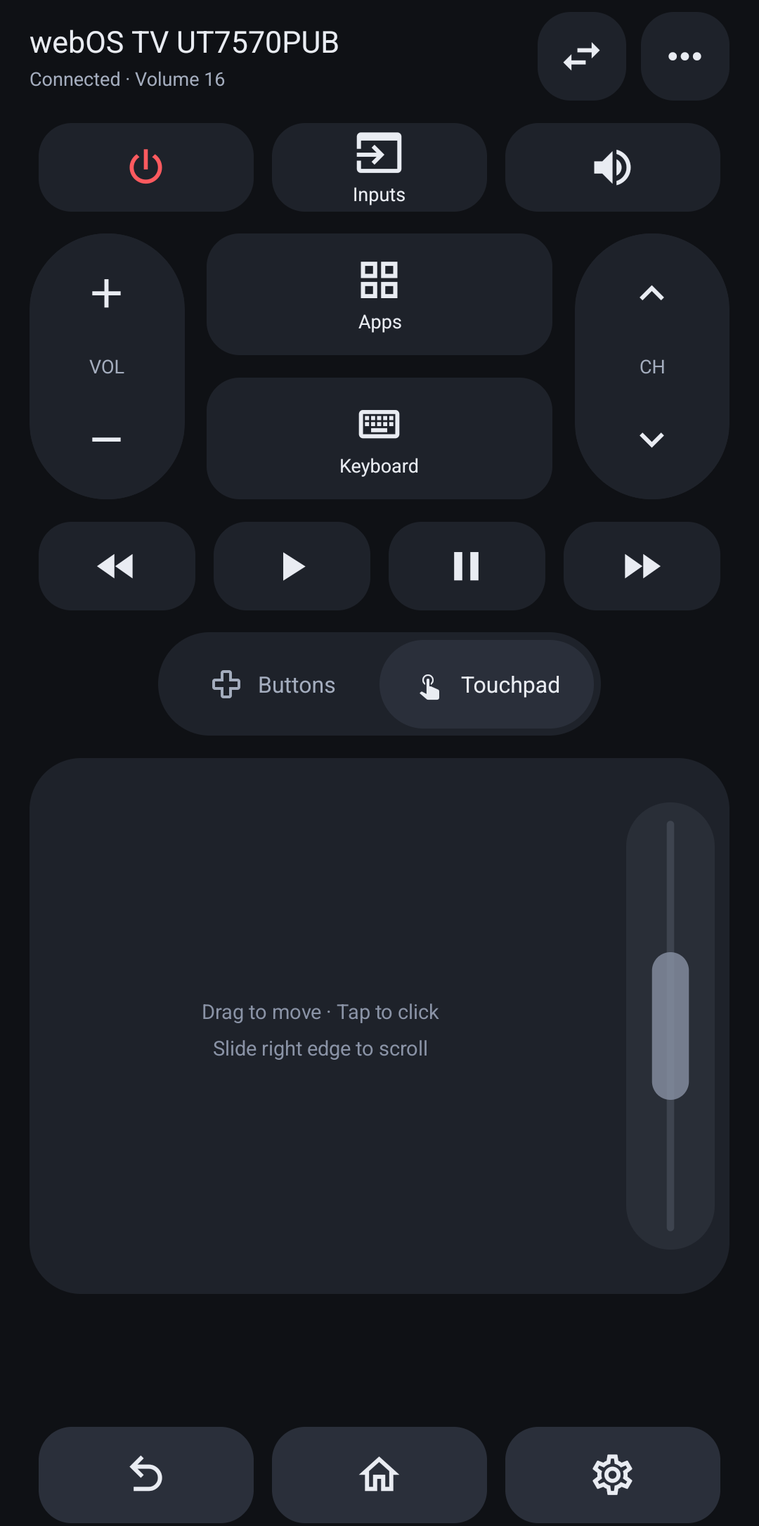
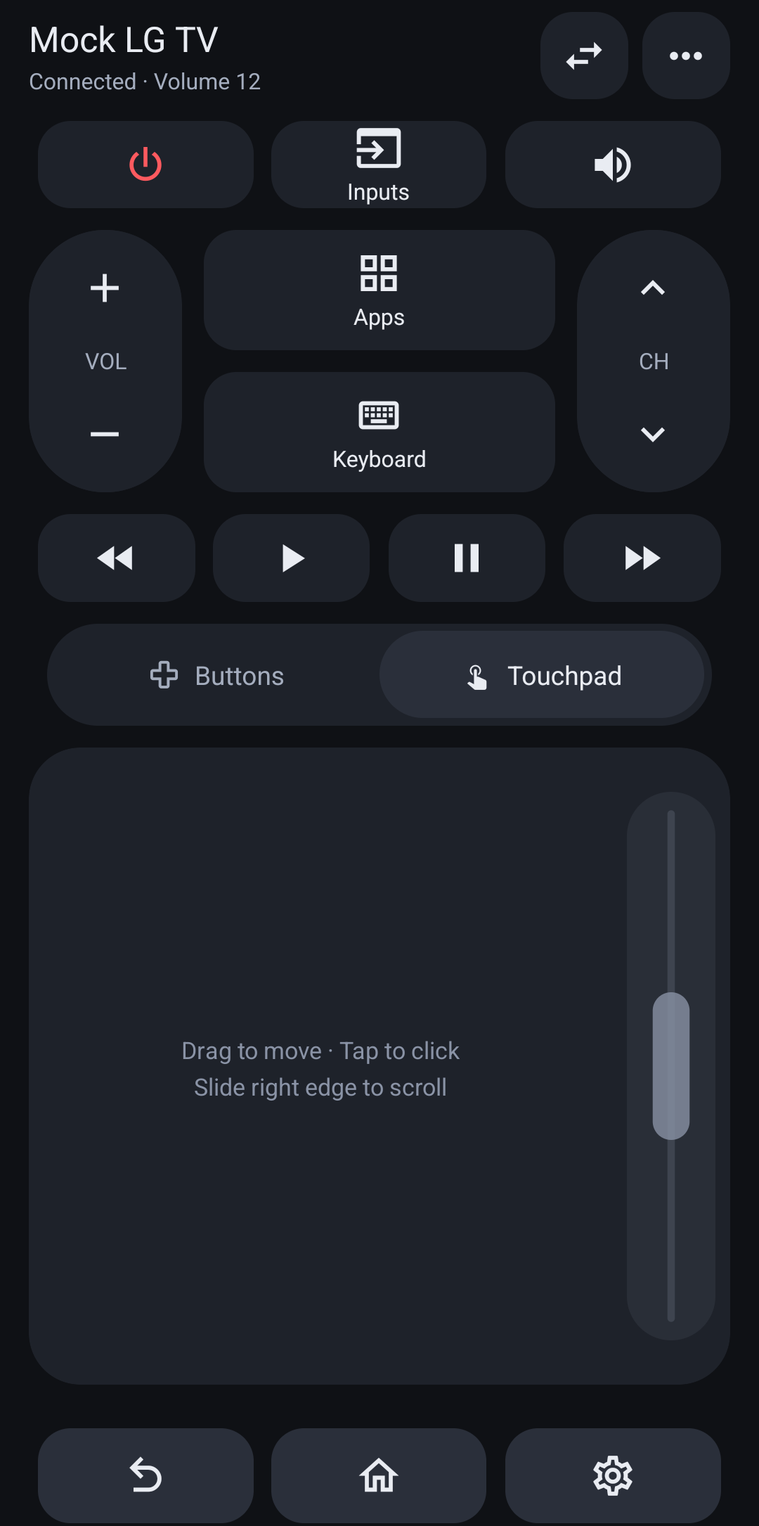
Release 0.6.6 with consistent remote layout across screen sizes

diff --git a/app/components/RemoteScreen.tsx b/app/components/RemoteScreen.tsx
@@ -1,43 +1,29 @@
 import { useState } from 'react';
-import { Pressable, StyleSheet, useWindowDimensions, View } from 'react-native';
+import { Pressable, StyleSheet, View } from 'react-native';
 import { ActivityIndicator, Text, TouchableRipple } from 'react-native-paper';
 import MaterialCommunityIcons from '@expo/vector-icons/MaterialCommunityIcons';
 import { native, NativeTouchpad, type RemoteState } from '../../modules/wave-remote';
 import { commands, connectionLabel } from '../lib/remote';
 import { palette } from '../theme';
-import { Dpad, RemoteButton, Rocker } from './RemoteButton';
 import { ScrollFrame } from './ScrollFrame';
+import { Dpad, RemoteButton, RemoteScaleContext, Rocker } from './RemoteButton';
 
 export type Panel = 'settings' | 'tvs' | 'inputs' | 'apps' | 'keyboard' | null;
 export function RemoteScreen({ state, setPanel, power, run }: {
   state: RemoteState; setPanel: (panel: Panel) => void; power: () => void;
   run: (action: () => Promise<unknown>) => Promise<boolean>;
 }) {
+  const [viewport, setViewport] = useState({ width: 412, height: 850 });
+  // React Native reports logical pixels after system bars and display scaling.
+  // Keep the reference proportions while leaving scrolling for large accessibility text.
+  const scale = Math.max(0.8, Math.min(1, viewport.width / 412, viewport.height / 850));
+  const styles = makeStyles(scale);
   const ready = state.state === 'ready';
   const busy = state.waking || state.state === 'connecting' || state.state === 'pairing';
-  const { width, height, fontScale } = useWindowDimensions();
-  const [availableHeight, setAvailableHeight] = useState(height);
-  const compact = availableHeight < 760;
-  const sideRockers = compact && fontScale <= 1.3 && width >= 300;
-  // Reserve the other controls and footer first; every D-pad target stays at least 48 dp.
-  const padSize = sideRockers ? Math.max(48, Math.min(84, Math.floor((Math.min(width, 600) - 156) / 3), Math.floor((availableHeight - 352) / 3)))
-    : compact ? Math.max(fontScale > 1.3 ? 64 : 48, Math.min(84, Math.floor((availableHeight - 417) / 3))) : 84;
-  const padGap = compact ? 6 : 8;
-  const touchpadHeight = compact ? Math.max(160, padSize * 3 + padGap * 2) : 200;
-  const row = [styles.row, compact && styles.compactRow];
-  const stackedShortcuts = (Math.min(width, 600) - 224) / fontScale < 72;
   const key = (name: string) => () => { void run(() => native!.button(name)); };
-  const shortcuts = <View style={[styles.shortcuts, compact && { gap: 8 }, stackedShortcuts && styles.wideShortcuts, sideRockers && styles.horizontalShortcuts]}>
-    <RemoteButton label="Apps" icon="view-grid-outline" caption="Apps" disabled={!ready} onPress={() => setPanel('apps')} style={[styles.shortcut, compact && { minHeight: 48 }]} />
-    <RemoteButton label="Keyboard" icon="keyboard-outline" caption="Keyboard" disabled={!ready} onPress={() => setPanel('keyboard')} style={[styles.shortcut, compact && { minHeight: 48 }]} />
-  </View>;
-  const pad = state.touchpad && NativeTouchpad ? <View style={[styles.touchpad, { minHeight: touchpadHeight }, !ready && styles.offlinePad]}>
-    {ready ? <NativeTouchpad style={[styles.nativePad, { minHeight: touchpadHeight }]} naturalEdge={state.naturalEdge} naturalTwoFinger={state.naturalTwoFinger} />
-      : <><MaterialCommunityIcons name="television-off" size={28} color={palette.onDisabled} /><Text variant="bodyMedium" style={styles.offlineText}>Connect to use the touchpad</Text></>}
-  </View> : <Dpad disabled={!ready} size={padSize} gap={padGap} />;
-  return <View style={styles.screen} onLayout={(event) => setAvailableHeight(event.nativeEvent.layout.height)}>
-    <ScrollFrame style={styles.scroll} contentContainerStyle={[styles.content, compact && { paddingTop: 4 }]}>
-    <View style={[styles.header, compact && styles.compactRow]}>
+  return <RemoteScaleContext.Provider value={scale}><View style={styles.screen} onLayout={({ nativeEvent: { layout } }) => setViewport({ width: layout.width, height: layout.height })}>
+    <ScrollFrame style={styles.scroll} contentContainerStyle={styles.content}>
+    <View style={styles.header}>
       <Pressable accessibilityRole="button" accessibilityLabel={`${state.name || 'LG TV'}. ${connectionLabel(state)}`} accessibilityHint="Reconnect to your TV" style={styles.titles} onPress={() => { if (!ready && !busy) void run(() => native!.reconnect()); }}>
         <Text style={styles.name} numberOfLines={1}>{state.name || 'LG TV'}</Text>
         <Text style={[styles.status, !ready && !busy && { color: palette.power }]} numberOfLines={2} accessibilityLiveRegion="polite">{connectionLabel(state)}</Text>
@@ -46,66 +32,65 @@ export function RemoteScreen({ state, setPanel, power, run }: {
       <RemoteButton label={state.tvs.length > 1 ? 'Switch TV' : 'Add or switch TV'} icon="swap-horizontal" onPress={() => setPanel('tvs')} style={styles.more} />
       <RemoteButton label="Remote settings" icon="dots-horizontal" onPress={() => setPanel('settings')} style={styles.more} />
     </View>
-    <View style={row}>
+    <View style={styles.row}>
       <RemoteButton label={ready ? 'Power off' : 'Wake TV'} icon="power" color={palette.power} disabled={busy} onPress={power} style={styles.weight} />
       <RemoteButton label="Inputs" icon="application-import" caption="Inputs" disabled={!ready} onPress={() => setPanel('inputs')} style={styles.weight} />
       <RemoteButton label={state.muted ? 'Unmute' : 'Mute'} icon={state.muted ? 'volume-off' : 'volume-high'} color={state.muted ? palette.power : palette.text} disabled={!ready} onPress={() => { void run(() => native!.request('ssap://audio/setMute', { mute: !state.muted })); }} style={styles.weight} />
     </View>
-    {sideRockers ? <View style={styles.compactRow}>{shortcuts}</View> : <View style={[styles.controls, compact && styles.compactRow]}>
-      <Rocker label="Volume" up={commands.volumeUp} down={commands.volumeDown} disabled={!ready} compact={compact} />
-      {!stackedShortcuts ? shortcuts : null}
-      <Rocker label="Channel" up={commands.channelUp} down={commands.channelDown} disabled={!ready} compact={compact} />
-      {stackedShortcuts ? shortcuts : null}
-    </View>}
-    <View style={row}>
+    <View style={styles.controls}>
+      <Rocker label="Volume" up={commands.volumeUp} down={commands.volumeDown} disabled={!ready} />
+      <View style={styles.shortcuts}>
+        <RemoteButton label="Apps" icon="view-grid-outline" caption="Apps" disabled={!ready} onPress={() => setPanel('apps')} style={styles.shortcut} />
+        <RemoteButton label="Keyboard" icon="keyboard-outline" caption="Keyboard" disabled={!ready} onPress={() => setPanel('keyboard')} style={styles.shortcut} />
+      </View>
+      <Rocker label="Channel" up={commands.channelUp} down={commands.channelDown} disabled={!ready} />
+    </View>
+    <View style={styles.row}>
       {([['rewind', 'rewind', 'Rewind'], ['play', 'play', 'Play'], ['pause', 'pause', 'Pause'], ['fastForward', 'fast-forward', 'Fast forward']] as const).map(([command, icon, label]) =>
         <RemoteButton key={command} label={label} icon={icon} disabled={!ready} onPress={() => { void run(() => native!.request(`ssap://media.controls/${command}`, null)); }} style={styles.weight} />)}
     </View>
-    <View style={[styles.modes, compact && styles.compactRow]} accessibilityRole="tablist">
+    <View style={styles.modes} accessibilityRole="tablist">
       {([['Buttons', 'gamepad-round-outline'], ['Touchpad', 'gesture-tap']] as const).map(([label, icon], index) => {
         const selected = state.touchpad === (index === 1);
         return <TouchableRipple key={label} onPress={() => { void run(() => native!.preferences(index === 1, state.naturalEdge, state.naturalTwoFinger)); }} accessibilityRole="tab" accessibilityState={{ selected }} style={[styles.mode, selected && styles.selectedMode]}>
-          <View style={[styles.modeContent, fontScale > 1.3 && styles.largeTextMode]}>
-            <MaterialCommunityIcons name={icon} size={18} color={selected ? palette.text : palette.muted} />
-            <Text style={{ color: selected ? palette.text : palette.muted, fontSize: 14 }}>{label}</Text>
+          <View style={styles.modeContent}>
+            <MaterialCommunityIcons name={icon} size={18 * scale} color={selected ? palette.text : palette.muted} />
+            <Text style={{ color: selected ? palette.text : palette.muted, fontSize: 14 * scale }}>{label}</Text>
           </View>
         </TouchableRipple>;
       })}
     </View>
-    <View style={[styles.pad, { minHeight: state.touchpad && NativeTouchpad ? touchpadHeight : padSize * 3 + padGap * 2 }]}>
-      {sideRockers ? <View style={styles.padWithRockers}>
-        <Rocker label="Volume" up={commands.volumeUp} down={commands.volumeDown} disabled={!ready} compact narrow />
-        <View style={styles.padCenter}>{pad}</View>
-        <Rocker label="Channel" up={commands.channelUp} down={commands.channelDown} disabled={!ready} compact narrow />
-      </View> : pad}
+    <View style={[styles.pad, !(state.touchpad && NativeTouchpad) && styles.buttonPad]}>
+      {state.touchpad && NativeTouchpad ? <View style={[styles.touchpad, !ready && styles.offlinePad]}>
+        {/* The native pad draws its own hints, so leave it out entirely while it can't be used. */}
+        {ready ? <NativeTouchpad style={styles.nativePad} naturalEdge={state.naturalEdge} naturalTwoFinger={state.naturalTwoFinger} />
+          : <><MaterialCommunityIcons name="television-off" size={28} color={palette.onDisabled} /><Text variant="bodyMedium" style={styles.offlineText}>Connect to use the touchpad</Text></>}
+      </View> : <Dpad disabled={!ready} />}
     </View>
-    <View style={[styles.landingZone, compact && { height: 4 }]} />
+    <View style={styles.landingZone} />
     </ScrollFrame>
-    <View style={[styles.footer, compact && { paddingTop: 8, paddingBottom: 8 }]}><View style={[styles.row, styles.navigation]}>
-      <RemoteButton label="Back" icon="arrow-u-left-top" disabled={!ready} onPress={key('BACK')} style={[styles.weight, styles.navButton, compact && { minHeight: 48 }]} />
-      <RemoteButton label="Home" icon="home-outline" disabled={!ready} onPress={key('HOME')} style={[styles.weight, styles.navButton, compact && { minHeight: 48 }]} />
-      <RemoteButton label="TV settings" icon="cog-outline" disabled={!ready} onPress={key('MENU')} style={[styles.weight, styles.navButton, compact && { minHeight: 48 }]} />
+    <View style={styles.footer}><View style={[styles.row, styles.navigation]}>
+      <RemoteButton label="Back" icon="arrow-u-left-top" disabled={!ready} onPress={key('BACK')} style={[styles.weight, styles.navButton]} />
+      <RemoteButton label="Home" icon="home-outline" disabled={!ready} onPress={key('HOME')} style={[styles.weight, styles.navButton]} />
+      <RemoteButton label="TV settings" icon="cog-outline" disabled={!ready} onPress={key('MENU')} style={[styles.weight, styles.navButton]} />
     </View></View>
-  </View>;
+  </View></RemoteScaleContext.Provider>;
 }
-const styles = StyleSheet.create({
+const makeStyles = (scale: number) => StyleSheet.create({
   screen: { flex: 1 }, scroll: { flex: 1 },
-  content: { flexGrow: 1, paddingHorizontal: 16, paddingTop: 8, maxWidth: 600, width: '100%', alignSelf: 'center' },
-  footer: { paddingHorizontal: 16, paddingTop: 12, paddingBottom: 12, maxWidth: 600, width: '100%', alignSelf: 'center' },
-  header: { minHeight: 48, flexDirection: 'row', alignItems: 'center', marginBottom: 12, gap: 8 },
-  titles: { flex: 1, minHeight: 48, justifyContent: 'center' }, name: { fontSize: 19, fontWeight: '500', color: palette.text },
-  status: { fontSize: 12, color: palette.muted, marginTop: 2 }, activity: { marginHorizontal: 4 }, more: { width: 48 },
-  row: { flexDirection: 'row', gap: 10, marginHorizontal: 5, marginBottom: 12 }, weight: { flex: 1 },
-  compactRow: { marginBottom: 4 },
-  horizontalShortcuts: { flexDirection: 'row', flex: 0, flexBasis: 'auto', marginHorizontal: 5, marginTop: 0 },
-  padWithRockers: { flex: 1, flexDirection: 'row', alignItems: 'center', gap: 8 }, padCenter: { flex: 1, alignItems: 'stretch', justifyContent: 'center', alignSelf: 'stretch' },
-  controls: { flexDirection: 'row', flexWrap: 'wrap', justifyContent: 'space-between', marginBottom: 12 }, shortcuts: { flex: 1, marginHorizontal: 12, gap: 12 }, wideShortcuts: { flexBasis: '100%', flexGrow: 0, flexShrink: 0, marginHorizontal: 0, marginTop: 12 }, shortcut: { minHeight: 66, flex: 1 },
-  modes: { flexDirection: 'row', alignSelf: 'center', width: '100%', maxWidth: 360, borderRadius: 28, backgroundColor: palette.surface, padding: 4, marginBottom: 12 },
-  mode: { minHeight: 48, paddingHorizontal: 8, paddingVertical: 8, alignItems: 'center', justifyContent: 'center', borderRadius: 24, flex: 1 }, selectedMode: { backgroundColor: palette.raised },
-  modeContent: { flexDirection: 'row', alignItems: 'center', gap: 8 },
-  largeTextMode: { flexDirection: 'column' },
-  pad: { flex: 1, minHeight: 200, justifyContent: 'center' },
-  touchpad: { flex: 1, minHeight: 200, borderRadius: 28, overflow: 'hidden' }, nativePad: { flex: 1, minHeight: 200 },
-  offlinePad: { backgroundColor: palette.disabled, alignItems: 'center', justifyContent: 'center', gap: 12 },
-  offlineText: { color: palette.muted }, landingZone: { height: 12 }, navigation: { marginBottom: 0 }, navButton: { minHeight: 52, backgroundColor: palette.raised },
+  content: { flexGrow: 1, paddingHorizontal: 16 * scale, paddingTop: 8 * scale, maxWidth: 600, width: '100%', alignSelf: 'center' },
+  footer: { paddingHorizontal: 16 * scale, paddingTop: 12 * scale, paddingBottom: 12 * scale, maxWidth: 600, width: '100%', alignSelf: 'center' },
+  header: { minHeight: 48 * scale, flexDirection: 'row', alignItems: 'center', marginBottom: 12 * scale, gap: 8 * scale },
+  titles: { flex: 1, minHeight: 48 * scale, justifyContent: 'center' }, name: { fontSize: 19 * scale, fontWeight: '500', color: palette.text },
+  status: { fontSize: 12 * scale, color: palette.muted, marginTop: 2 * scale }, activity: { marginHorizontal: 4 * scale }, more: { width: 48 * scale },
+  row: { flexDirection: 'row', gap: 10 * scale, marginHorizontal: 5 * scale, marginBottom: 12 * scale }, weight: { flex: 1 },
+  controls: { flexDirection: 'row', marginBottom: 12 * scale }, shortcuts: { flex: 1, marginHorizontal: 12 * scale, gap: 12 * scale }, shortcut: { minHeight: 66 * scale, flex: 1 },
+  modes: { flexDirection: 'row', alignSelf: 'stretch', marginHorizontal: 10 * scale, borderRadius: 28 * scale, backgroundColor: palette.surface, padding: 4 * scale, marginBottom: 12 * scale },
+  mode: { minHeight: 48 * scale, paddingHorizontal: 16 * scale, alignItems: 'center', justifyContent: 'center', borderRadius: 24 * scale, flex: 1 }, selectedMode: { backgroundColor: palette.raised },
+  modeContent: { flexDirection: 'row', alignItems: 'center', gap: 8 * scale },
+  pad: { flex: 1, minHeight: 200 * scale, justifyContent: 'center' },
+  buttonPad: { minHeight: 268 * scale },
+  touchpad: { flex: 1, minHeight: 200 * scale, borderRadius: 28 * scale, overflow: 'hidden' }, nativePad: { flex: 1, minHeight: 200 * scale },
+  offlinePad: { backgroundColor: palette.disabled, alignItems: 'center', justifyContent: 'center', gap: 12 * scale },
+  offlineText: { color: palette.muted }, landingZone: { height: 12 * scale }, navigation: { marginBottom: 0 }, navButton: { minHeight: 52 * scale, backgroundColor: palette.raised },
 });

diff --git a/app/components/RemoteButton.tsx b/app/components/RemoteButton.tsx
@@ -1,10 +1,12 @@
-import { useEffect, useRef, useState, type ComponentProps } from 'react';
-import { AppState, Pressable, StyleSheet, useWindowDimensions, View, type StyleProp, type ViewStyle } from 'react-native';
+import { createContext, useContext, useEffect, useRef, useState, type ComponentProps } from 'react';
+import { AppState, Pressable, StyleSheet, View, type StyleProp, type ViewStyle } from 'react-native';
 import MaterialCommunityIcons from '@expo/vector-icons/MaterialCommunityIcons';
 import { Text } from 'react-native-paper';
 import * as Haptics from 'expo-haptics';
 import { native } from '../../modules/wave-remote';
 import { palette } from '../theme';
+
+export const RemoteScaleContext = createContext(1);
 
 type Props = {
   label: string;
@@ -19,6 +21,8 @@ type Props = {
   style?: StyleProp<ViewStyle>;
 };
 export function RemoteButton({ label, icon, caption, onPress, repeat, disabled, accent, color: enabledColor = palette.text, style }: Props) {
+  const scale = useContext(RemoteScaleContext);
+  const styles = makeStyles(scale);
   const [pressed, setPressed] = useState(false);
   const color = disabled ? palette.onDisabled : enabledColor;
   const held = useRef(false);
@@ -55,40 +59,38 @@ export function RemoteButton({ label, icon, caption, onPress, repeat, disabled, 
         pressed && !disabled && styles.pressed, disabled && styles.disabled]}
     >
       {icon ? <>
-        <MaterialCommunityIcons name={icon} color={color} size={26} />
+        <MaterialCommunityIcons name={icon} color={color} size={26 * scale} />
         {caption ? <Text style={[styles.caption, { color }]}>{caption}</Text> : null}
-      </> : <Text style={[styles.label, { color, fontSize: label === 'OK' ? 20 : 15, fontWeight: label === 'OK' ? '700' : '400' }]}>{label}</Text>}
+      </> : <Text style={[styles.label, { color, fontSize: (label === 'OK' ? 20 : 15) * scale, fontWeight: label === 'OK' ? '700' : '400' }]}>{label}</Text>}
     </Pressable>
   );
 }
-export function Dpad({ disabled, size = 84, gap = 8 }: { disabled: boolean; size?: number; gap?: number }) {
-  const round = [styles.round, { width: size, height: size, borderRadius: size / 2 }];
-  const spacer = { width: size, height: size };
-  const row = [styles.dpadRow, { gap }];
-  return <View style={[styles.dpad, { gap }]} accessibilityLabel="Directional controls">
-    <View style={row}><View style={spacer} /><RemoteButton label="Up" icon="chevron-up" repeat={{ key: 'UP', pointer: true }} disabled={disabled} style={round} /><View style={spacer} /></View>
-    <View style={row}>
-      <RemoteButton label="Left" icon="chevron-left" repeat={{ key: 'LEFT', pointer: true }} disabled={disabled} style={round} />
-      <RemoteButton label="OK" onPress={() => void native?.button('ENTER')} disabled={disabled} accent style={round} />
-      <RemoteButton label="Right" icon="chevron-right" repeat={{ key: 'RIGHT', pointer: true }} disabled={disabled} style={round} />
+export function Dpad({ disabled }: { disabled: boolean }) {
+  const styles = makeStyles(useContext(RemoteScaleContext));
+  return <View style={styles.dpad} accessibilityLabel="Directional controls">
+    <View style={styles.dpadRow}><View style={styles.spacer} /><RemoteButton label="Up" icon="chevron-up" repeat={{ key: 'UP', pointer: true }} disabled={disabled} style={styles.round} /><View style={styles.spacer} /></View>
+    <View style={styles.dpadRow}>
+      <RemoteButton label="Left" icon="chevron-left" repeat={{ key: 'LEFT', pointer: true }} disabled={disabled} style={styles.round} />
+      <RemoteButton label="OK" onPress={() => void native?.button('ENTER')} disabled={disabled} accent style={styles.round} />
+      <RemoteButton label="Right" icon="chevron-right" repeat={{ key: 'RIGHT', pointer: true }} disabled={disabled} style={styles.round} />
     </View>
-    <View style={row}><View style={spacer} /><RemoteButton label="Down" icon="chevron-down" repeat={{ key: 'DOWN', pointer: true }} disabled={disabled} style={round} /><View style={spacer} /></View>
+    <View style={styles.dpadRow}><View style={styles.spacer} /><RemoteButton label="Down" icon="chevron-down" repeat={{ key: 'DOWN', pointer: true }} disabled={disabled} style={styles.round} /><View style={styles.spacer} /></View>
   </View>;
 }
-export function Rocker({ label, up, down, disabled, compact, narrow }: { label: string; up: string; down: string; disabled: boolean; compact?: boolean; narrow?: boolean }) {
-  const { fontScale } = useWindowDimensions();
-  return <View style={[styles.rocker, compact && { height: Math.max(narrow ? 128 : 113, 96 + Math.ceil(17 * fontScale)) }, narrow && { width: 48 }, disabled && styles.disabled]}>
+export function Rocker({ label, up, down, disabled }: { label: string; up: string; down: string; disabled: boolean }) {
+  const styles = makeStyles(useContext(RemoteScaleContext));
+  return <View style={[styles.rocker, disabled && styles.disabled]}>
     <RemoteButton label={`${label} up`} icon={label === 'Volume' ? 'plus' : 'chevron-up'} repeat={{ key: up }} disabled={disabled} style={styles.rockerButton} />
     <Text style={[styles.rockerLabel, disabled && styles.disabledText]}>{label === 'Volume' ? 'VOL' : 'CH'}</Text>
     <RemoteButton label={`${label} down`} icon={label === 'Volume' ? 'minus' : 'chevron-down'} repeat={{ key: down }} disabled={disabled} style={styles.rockerButton} />
   </View>;
 }
-const styles = StyleSheet.create({
-  button: { minHeight: 48, borderRadius: 18, alignItems: 'center', justifyContent: 'center', overflow: 'hidden', paddingHorizontal: 4 },
-  label: { textAlign: 'center' }, caption: { fontSize: 12, marginTop: 2, textAlign: 'center', flexShrink: 1 }, pressed: { backgroundColor: palette.raised },
+const makeStyles = (scale: number) => StyleSheet.create({
+  button: { minHeight: 48 * scale, borderRadius: 18 * scale, alignItems: 'center', justifyContent: 'center', overflow: 'hidden', paddingHorizontal: 4 * scale },
+  label: { textAlign: 'center' }, caption: { fontSize: 12 * scale, marginTop: 2 * scale, textAlign: 'center' }, pressed: { backgroundColor: palette.raised },
   disabled: { backgroundColor: palette.disabled }, disabledText: { color: palette.onDisabled },
-  dpad: { alignSelf: 'center', gap: 8 }, dpadRow: { flexDirection: 'row', gap: 8 },
-  round: { width: 84, height: 84, borderRadius: 42 },
-  rocker: { width: 84, height: 144, borderRadius: 42, backgroundColor: palette.surface, overflow: 'hidden' },
-  rockerButton: { flex: 1, borderRadius: 42 }, rockerLabel: { color: palette.muted, textAlign: 'center', fontSize: 12 },
+  dpad: { alignSelf: 'center', gap: 8 * scale }, dpadRow: { flexDirection: 'row', gap: 8 * scale },
+  round: { width: 84 * scale, height: 84 * scale, borderRadius: 42 * scale }, spacer: { width: 84 * scale, height: 84 * scale },
+  rocker: { width: 84 * scale, height: 144 * scale, borderRadius: 42 * scale, backgroundColor: palette.surface, overflow: 'hidden' },
+  rockerButton: { flex: 1, borderRadius: 42 * scale }, rockerLabel: { color: palette.muted, textAlign: 'center', fontSize: 12 * scale },
 });

diff --git a/DESIGN.md b/DESIGN.md
@@ -182,11 +182,11 @@ The remote retains its own title, ordinary label and bold OK sizes. Status and r
 
 ## Layout
 
-The safe-area app contains a centered phone layout capped at 600 native units. Remote side padding is 16; setup and menu content generally use 24. The remote uses a compact arrangement below 760 units of measured available height, and setup reduces decorative space below 700. Fitting content has scrolling disabled. Overflow shows a native scrollbar and a temporary More below hint with a 28-unit chevron. The hint ignores touches, reserves no space, fades after 2.6 seconds, and disappears immediately on scrolling. There is no permanent More bar.
+The safe-area app contains a centered phone layout capped at 600 native units. Remote side padding is 16; setup and menu content generally use 24. The remote scales its reference geometry from measured safe-area width and height without rearranging its controls. Setup reduces decorative space below 700. Fitting content has scrolling disabled. Overflow shows a native scrollbar and a temporary More below hint with a 28-unit chevron. The hint ignores touches, reserves no space, fades after 2.6 seconds, and disappears immediately on scrolling. There is no permanent More bar.
 
-**The Remote Order Rule.** Keep header → power/input/mute → shortcuts → playback → mode selector → central pad → back/home/TV settings. Spacious layouts keep volume/channel alongside Apps/Keyboard. Short screens at ordinary text sizes move the volume/channel rockers beside the pad and put Apps/Keyboard in one row. Navigation remains fixed below the scrolling area.
+**The Remote Order Rule.** Keep header → power/input/mute → shortcuts → playback → mode selector → central pad → back/home/TV settings. Volume/channel always stay alongside the vertically stacked Apps/Keyboard shortcuts, including on short screens. Navigation remains fixed below the scrolling area.
 
-The spacious D-pad uses 84-unit circular cells with 8-unit gaps. Compact cells adapt to available width and height, never falling below 48, with 6-unit gaps. Side rockers are 48 wide; spacious rockers remain 84 wide and 144 tall. Large text can move shortcuts below the rockers and use vertical scrolling choices instead of truncated segments. Remote buttons and navigation retain at least 48-unit touch targets. Sheets cap width at 600, respect the top safe area, and pad their bottom by the larger of 24 or the safe-area inset. Headings and forms scroll together when needed; app/input lists retain virtualization. Keyboard-aware containers keep form actions reachable.
+The reference D-pad uses 84-unit circular cells with 8-unit gaps; rockers are 84 wide and 144 tall. Reference dimensions scale uniformly between 80% and 100% for the available space. Large text uses scrolling without rearranging shortcuts or rockers. The Buttons/Touchpad selector spans the content width. Sheets cap width at 600, respect the top safe area, and pad their bottom by the larger of 24 or the safe-area inset. Headings and forms scroll together when needed; app/input lists retain virtualization. Keyboard-aware containers keep form actions reachable.
 
 ## Elevation & Depth
 

diff --git a/docs/qa/release-0.6.6.md b/docs/qa/release-0.6.6.md
@@ -1,0 +1,22 @@
+# Wave Remote 0.6.6 release verification
+
+Verified on 2026-10-21 with the production-signed APK, an Android 16 Pixel emulator,
+and the local mock webOS TV. No physical phone or real TV was available for this run.
+
+- The final APK installed over an earlier production-signed 0.6.6 test APK and retained its mock TV pairing.
+- At the default 1080 × 2400 / 420 dpi configuration, Buttons and Touchpad modes keep volume/channel beside vertically stacked Apps/Keyboard, above playback and the full-width mode switch. Footer navigation stays at the bottom.
+- At 360 × 640 dp, both modes retain the same arrangement; no compact branch moves rockers beside the pad or shortcuts into one row.
+- At 360 × 640 dp and 200% text, captions remain readable and the remote scrolls to the remaining controls while footer navigation stays fixed.
+- D-pad OK dispatched ENTER to the mock TV. Switching Buttons/Touchpad retained the layout.
+- The APK bundle matches the current RemoteScreen and RemoteButton build sources.
+- Typecheck, lint, all nine Bun tests, lockfile consistency, Java preference/held-key tests, and protocol tests passed. Site typecheck passed.
+- Production certificate, v2/v3 APK signatures, 16 KB ZIP alignment, and byte-identical signature copying passed tools/verify-fdroid.sh.
+
+Evidence: [default buttons](screenshots/0.6.6/buttons-default.png),
+[default touchpad](screenshots/0.6.6/touchpad-default.png),
+[360 × 640 buttons](screenshots/0.6.6/buttons-360x640.png),
+and [360 × 640 touchpad](screenshots/0.6.6/touchpad-360x640.png).
+
+The website and store screenshots are fresh emulator captures with the mock TV,
+not captures from a physical phone or generated artwork. The 0.6.5 matrix in
+phone-layouts.md documents the previous compact layout and does not certify this release.

diff --git a/docs/release-notes.md b/docs/release-notes.md
@@ -1,12 +1,11 @@
-Wave Remote 0.6.5 fits more phone sizes and larger text settings:
+Wave Remote 0.6.6 keeps the familiar remote layout across screen sizes:
 
-- Compact remote layouts keep controls visible without scrolling where they fit.
-- Setup and menu actions stay reachable when the keyboard is open.
-- Larger text remains readable in shortcuts, scrolling preferences, and touchpad instructions.
-- A brief larger-arrow hint shows when more content is below; it disappears on scrolling or after a moment.
+- Volume and channel stay beside the stacked Apps and Keyboard buttons.
+- Controls scale to the available screen space, with a full-width Buttons/Touchpad switch.
+- Back, Home, and TV settings stay at the bottom; larger text can still scroll.
 
-Installs over 0.6.4 and keeps your pairings and remote settings when signed with the same release key. To check the download: `sha256sum --check wave-remote-v0.6.5.apk.sha256`.
+Installs over 0.6.5 and keeps your TV pairings and remote settings. Uses the same production signing key as the VesselWave F-Droid repository.
 
-Layout verification covered nine Android emulator size/text configurations, plus a narrow cutout layout. Physical-device coverage remains limited; see the [QA report](https://github.com/VesselWave/wave-remote/blob/main/docs/qa/phone-layouts.md).
+To check the download: `sha256sum --check wave-remote-v0.6.6.apk.sha256`.
 
 Setup and troubleshooting are in the [README](https://github.com/VesselWave/wave-remote#readme). Not affiliated with LG.

diff --git a/CHANGELOG.md b/CHANGELOG.md
@@ -1,5 +1,11 @@
 # Changelog
 
+## 0.6.6 — 2026-10-21
+
+- Keeps volume and channel beside the stacked Apps and Keyboard buttons on every screen size.
+- Scales the remote to the available screen space and gives the Buttons/Touchpad switch the full width.
+- Retains scrolling for larger accessibility text and keeps Back, Home, and TV settings at the bottom.
+
 ## 0.6.5 — 2026-10-20
 
 - The remote adapts to shorter screens, keeping controls visible without scrolling where they fit. Volume and channel controls sit beside the pad on compact layouts.

diff --git a/docs/qa/phone-layouts.md b/docs/qa/phone-layouts.md
@@ -1,5 +1,7 @@
 # Android phone layout verification
 
+The matrix below records the 0.6.5 compact layout. Version 0.6.6 replaces that arrangement with scaled reference geometry; its verification is recorded in `release-0.6.6.md`.
+
 Tested on 2026-10-20 using the installed release-mode APK on the T3 Pixel emulator
 (Android 16/API 36, arm64), with the repository's local mock webOS TV. These are
 emulated layout configurations, not separate physical devices or Android versions.
